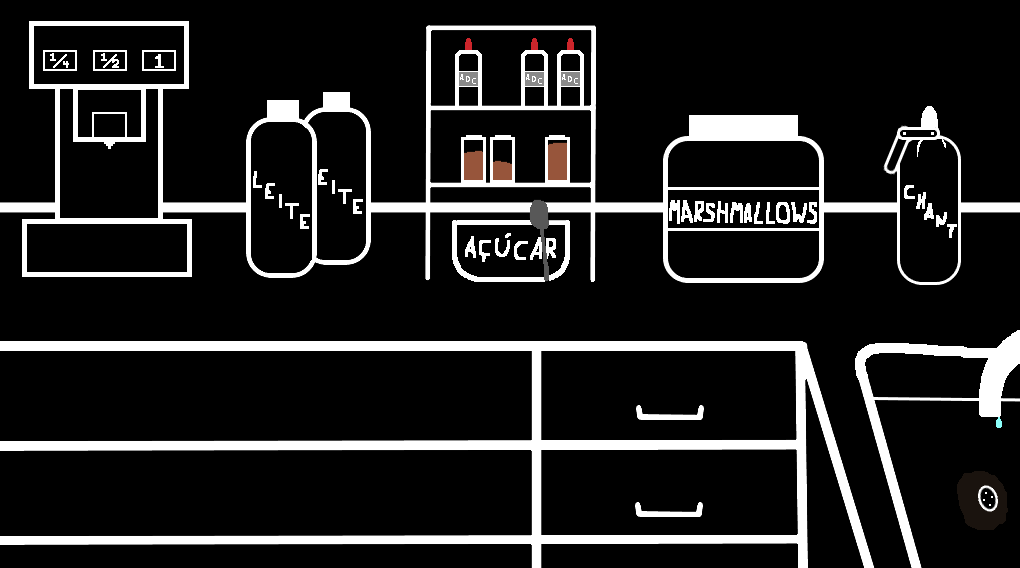
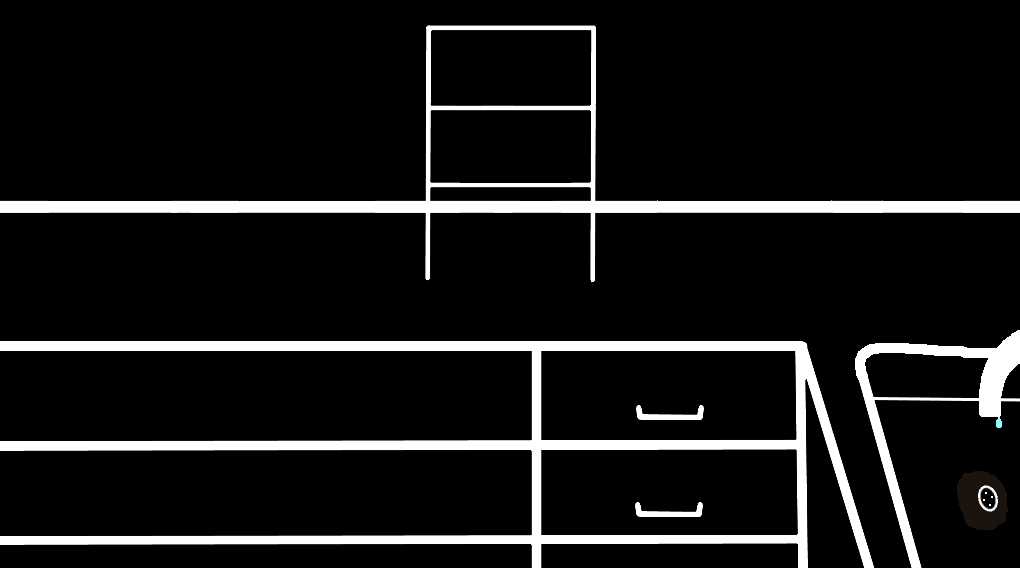
Separação dos Ingredientes
Os ingredientes foram separados em imagens diferentes da imagem de fundo para melhor organização, interatividade e funcionamento em diferentes dispositivos

diff --git a/index.html b/index.html
@@ -22,16 +22,17 @@
             <img class="prateleira-bottom" src="imagens/fundo_baixo.png">
             <div id="xicaras"></div>
             <div id="cafeteira">
+                <img src="imagens/cafeteira.png">
                 <div id="quarto"></div>
                 <div id="meio"></div>
                 <div id="inteiro"></div>
             </div>
-            <div id="leite"></div>
-            <div id="acucar"></div>
-            <div id="canela"></div>
-            <div id="adocante"></div>
-            <div id="marshmallows"></div>
-            <div id="chantilly"></div>
+            <img id="leite" src="imagens/leite.png">
+            <img id="acucar" src="imagens/acucar.png">
+            <img id="canela" src="imagens/canela.png">
+            <img id="adocante" src="imagens/adocante.png">
+            <img id="marshmallows" src="imagens/marshmallows.png">
+            <img id="chantilly" src="imagens/chantilly.png">
             <div id="pia"></div>
         </div>
     </body>

diff --git a/style.css b/style.css
@@ -116,10 +116,15 @@ body {
     width: 17%;
 }
 
+#cafeteira img {
+    height: 100%;
+    width: 100%;
+}
+
 #quarto {
     position: absolute;
-    left: 14%;
-    top: 13%;
+    left: 13.7%;
+    top: 12%;
     height: 7%;
     width: 18%;
     cursor: pointer;
@@ -128,7 +133,7 @@ body {
 #meio {
     position: absolute;
     left: 43%;
-    top: 13%;
+    top: 12%;
     height: 7%;
     width: 18%;
     cursor: pointer;
@@ -136,8 +141,8 @@ body {
 
 #inteiro {
     position: absolute;
-    left: 71%;
-    top: 13%;
+    left: 71.7%;
+    top: 12%;
     height: 7%;
     width: 18%;
     cursor: pointer;
@@ -154,10 +159,10 @@ body {
 
 #acucar {
     position: absolute;
-    left: 44%;
-    top: 57%;
-    height: 8%;
-    width: 12%;
+    left: 44.4%;
+    top: 54%;
+    height: 10.5%;
+    width: 11.5%;
     cursor: pointer;
 }
 
